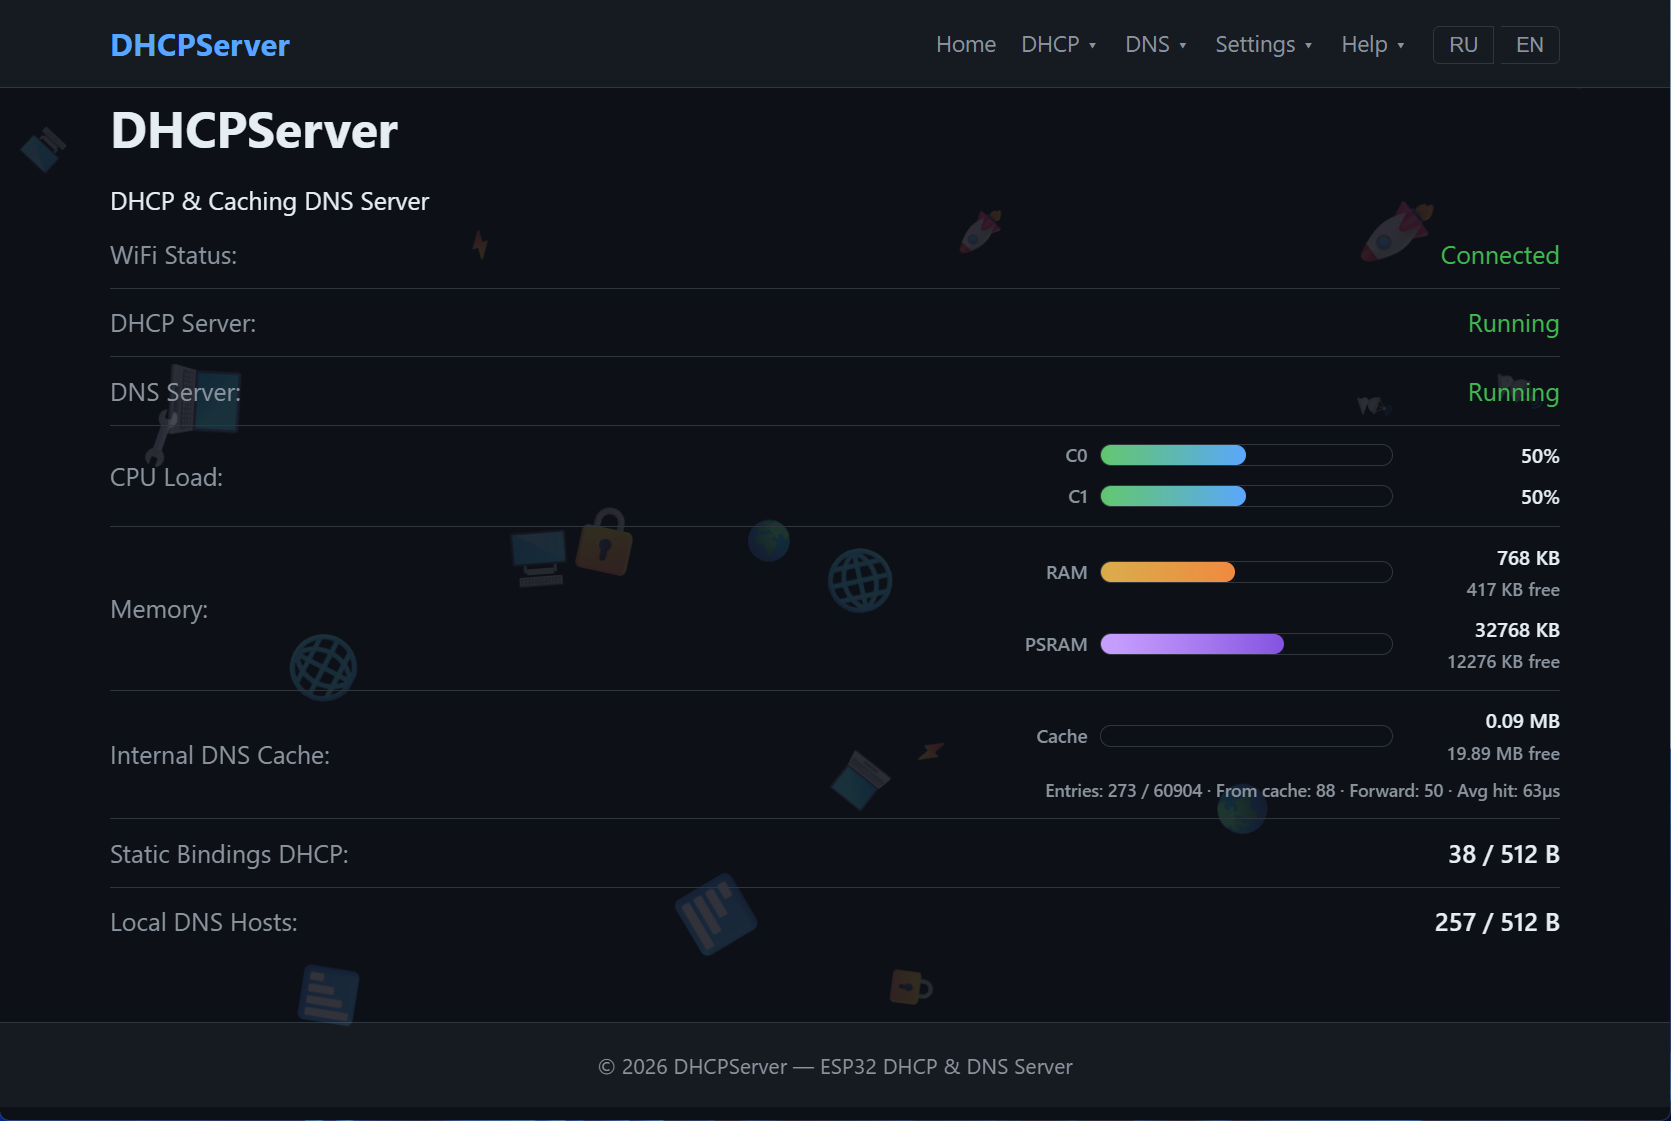
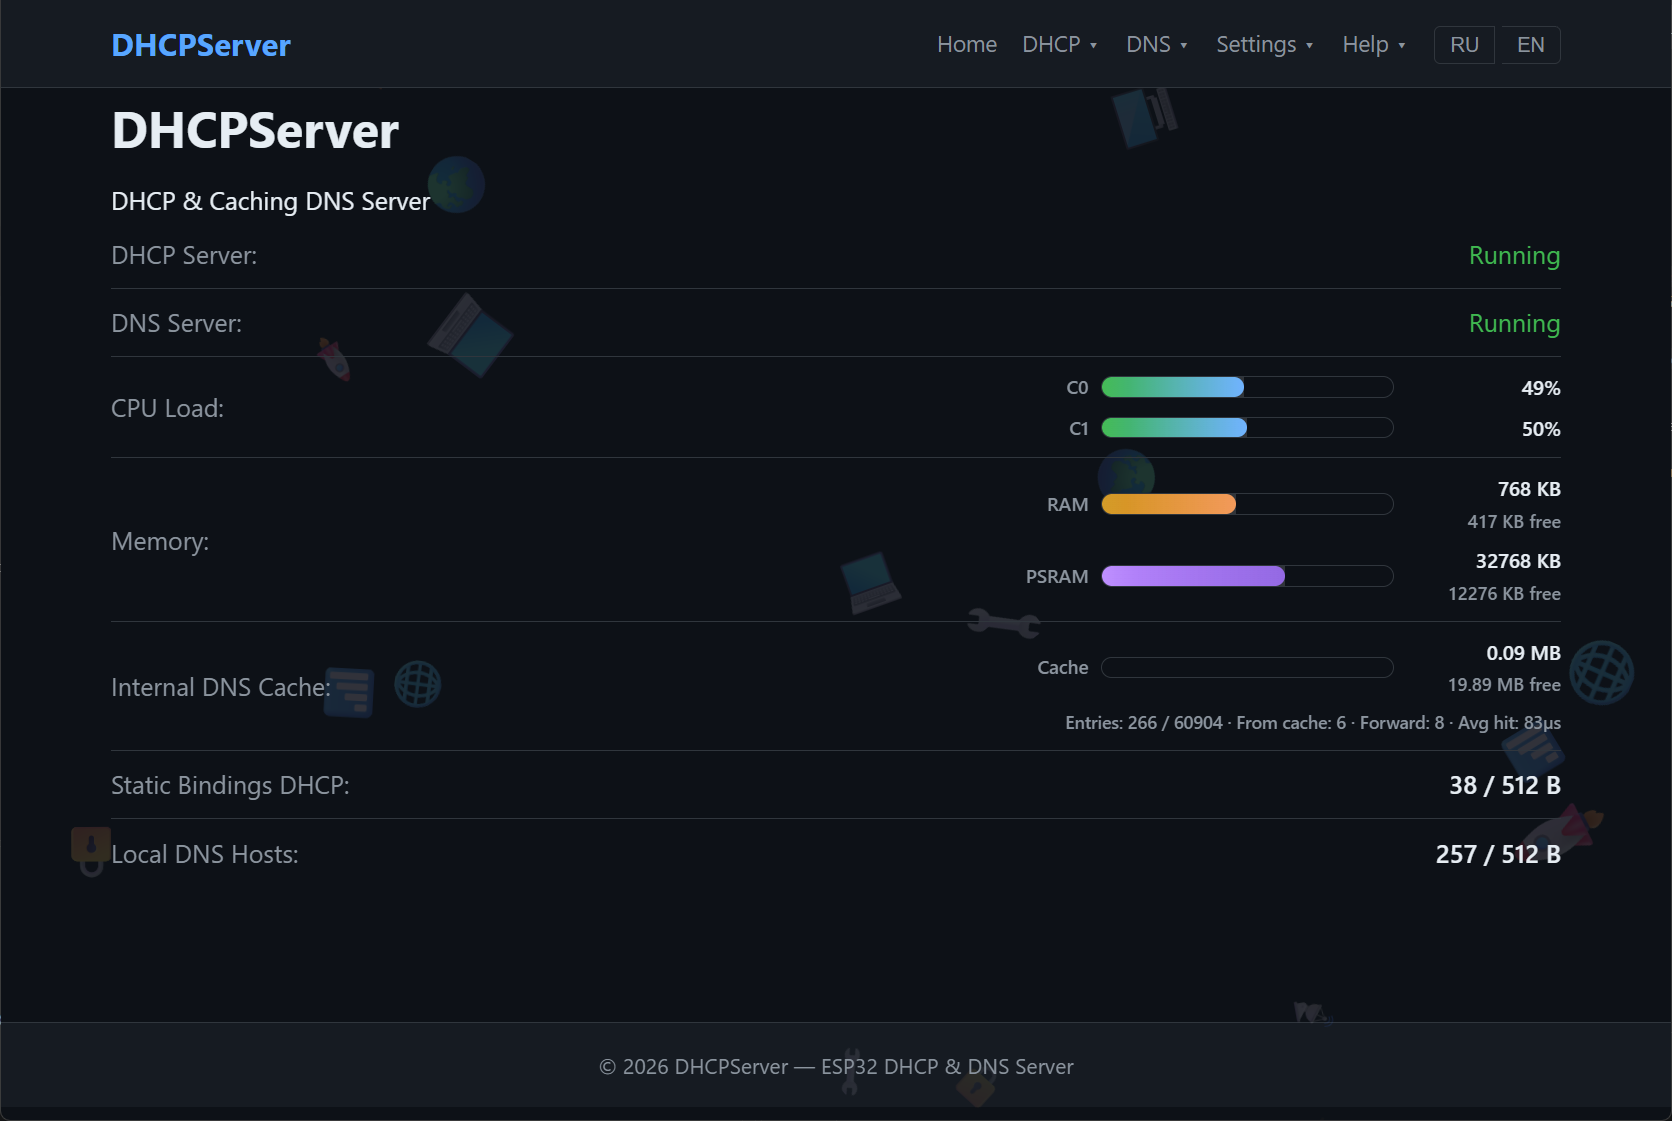
update main page

diff --git a/data/js/app.js b/data/js/app.js
@@ -233,7 +233,7 @@ document.addEventListener('DOMContentLoaded', async () => {
     });
 
     // Update status on index page
-    if (document.getElementById('wifi-status')) {
+    if (document.getElementById('dhcp-status')) {
         updateStatus();
         // Auto-refresh every 5 s — live bars like Task Manager. Polling too
         // often (2 s) opens many TCP connections and exhausts the httpd
@@ -252,9 +252,6 @@ function setMeter(id, pct) {
 async function updateStatus() {
     try {
         const data = await fetchJSON('/api/status');
-        document.getElementById('wifi-status').textContent =
-            data.wifi_connected ? tr('status.connected') : tr('status.disconnected');
-        document.getElementById('wifi-status').className = data.wifi_connected ? 'status-ok' : 'status-err';
         const dhcpEl = document.getElementById('dhcp-status');
         if (dhcpEl) {
             dhcpEl.textContent = data.dhcp_running ? tr('status.running') : tr('status.stopped');

diff --git a/data/index.html b/data/index.html
@@ -15,10 +15,6 @@
         <p data-i18n="app.subtitle">DHCP &amp; Caching DNS Server</p>
         <div id="status">
             <div class="status-row">
-                <span class="status-label" data-i18n="app.wifi_status">WiFi Status:</span>
-                <span id="wifi-status" class="status-value">--</span>
-            </div>
-            <div class="status-row">
                 <span class="status-label" data-i18n="app.dhcp_status">DHCP Server:</span>
                 <span id="dhcp-status" class="status-value">--</span>
             </div>
